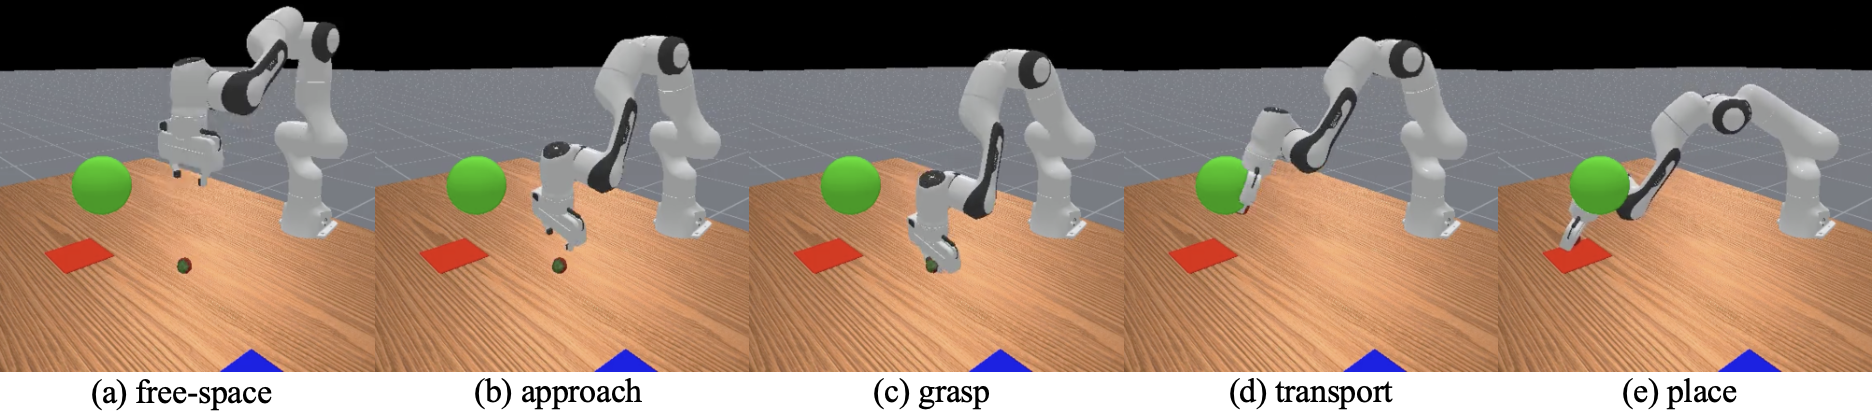
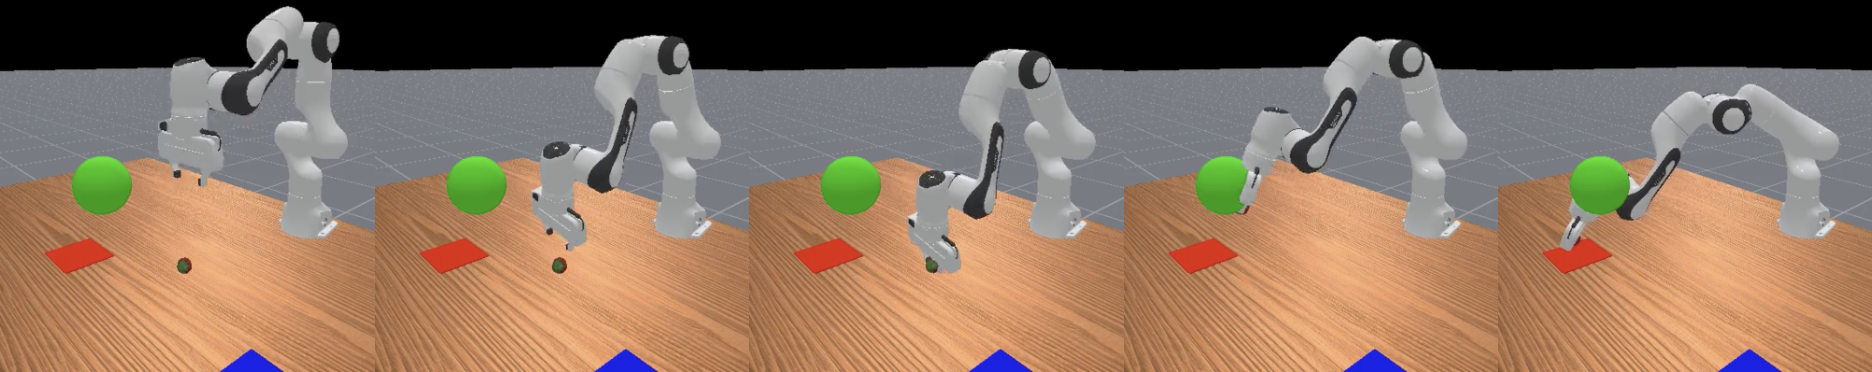
fix readme

diff --git a/Readme.md b/Readme.md
@@ -1,10 +1,9 @@
 # Task-Aligned Tactile Representation Learning for Robotic Manipulation
 
-**IEEE ROBIO 2026** · Min Joong Kim\*, Zhengrong Ling\*, Yajing Shen · The Hong Kong University of Science and Technology
-<br>\* Equal contribution
+**IEEE ROBIO 2026** · Min Joong Kim\*, Zhengrong Ling\*, Yajing Shen · The Hong Kong University of Science and Technology <br>\* Equal contribution
 
 Code and data for **Task-Aligned Tactile Representation Learning for Robotic
-Manipulation**.
+Manipulation**
 
 <p align="center">
   <img src="assets/task_description.png" width="100%" alt="Grasp-transfer-place task: free-space, approach, grasp, transport through the waypoint, place on the tray">
